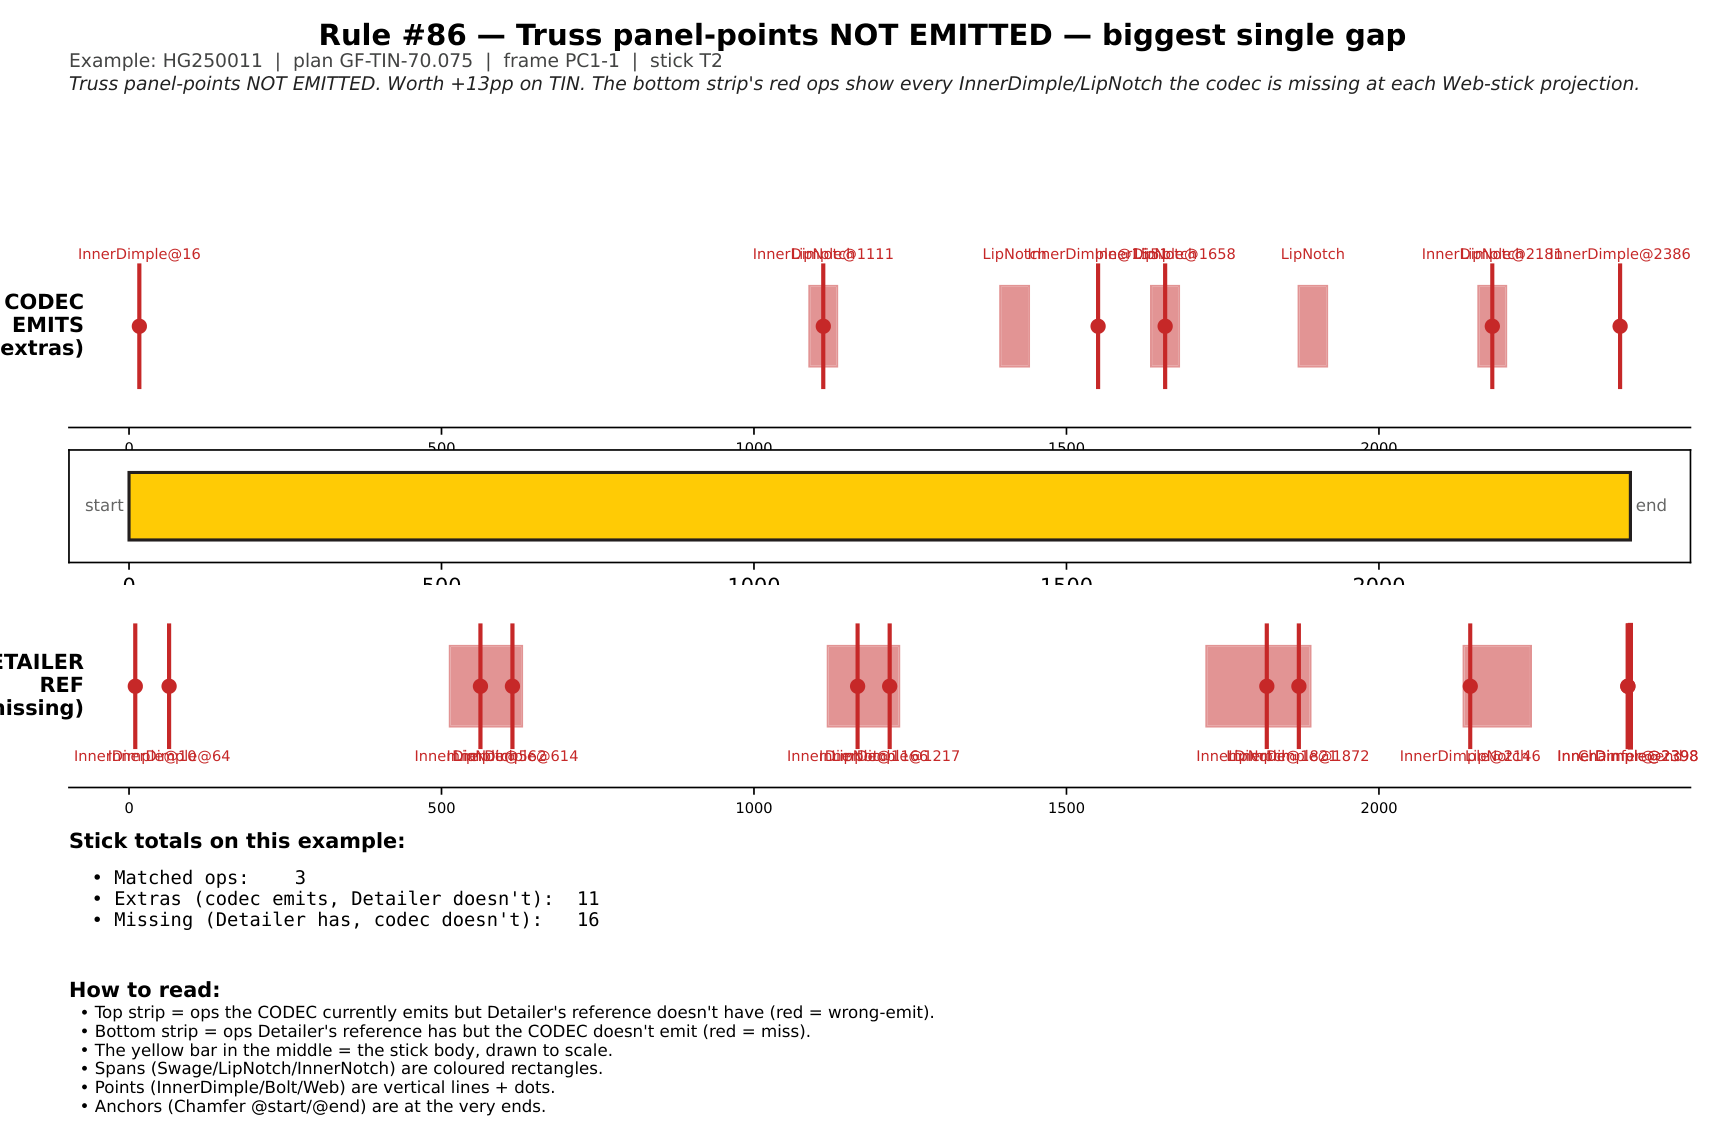
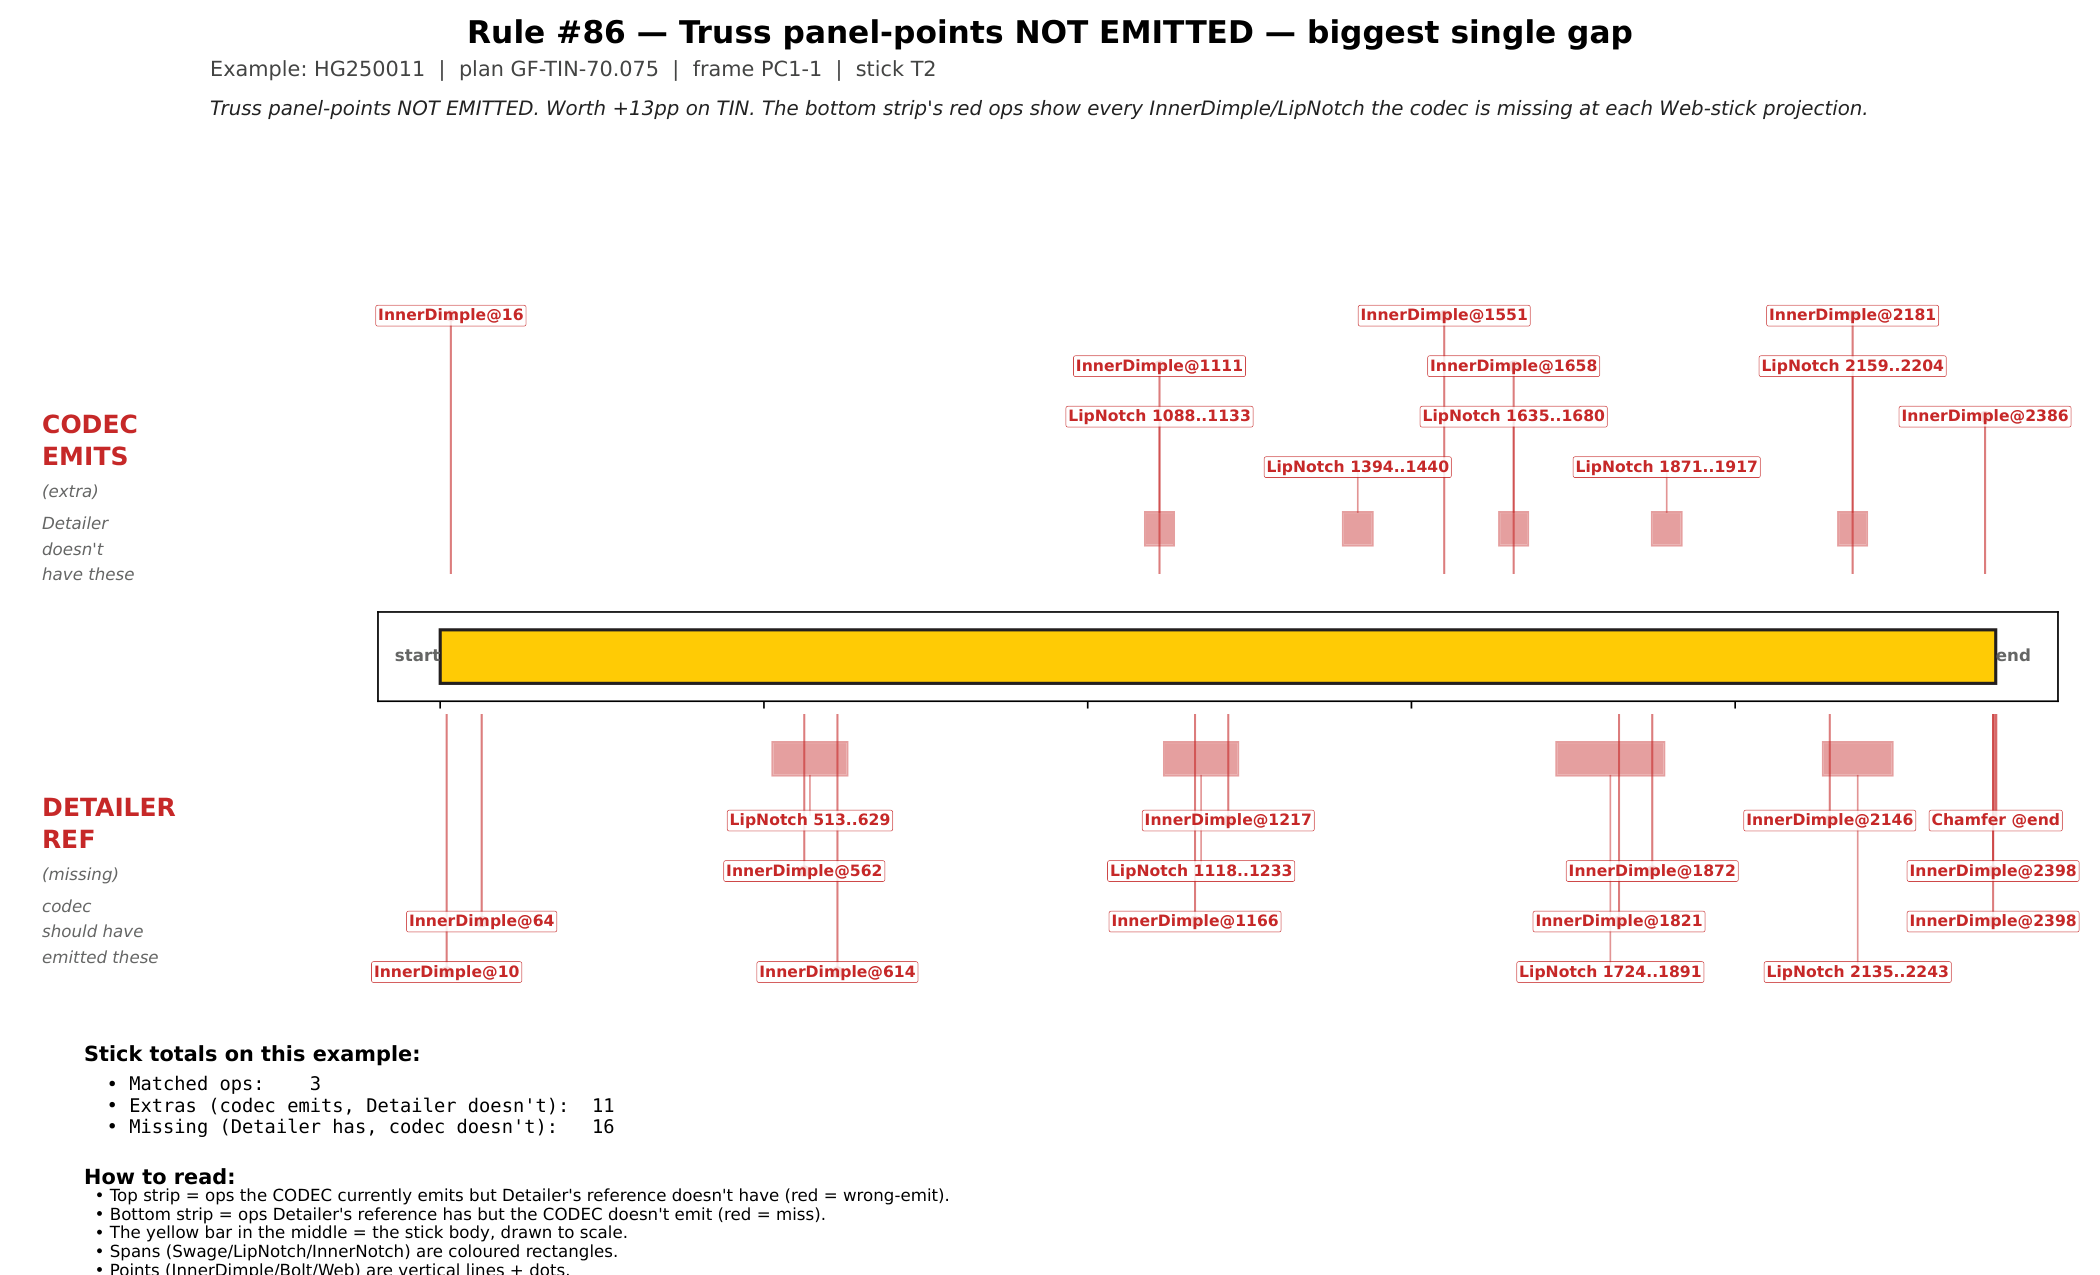
Auto-save session changes

diff --git a/docs/render_rule_pdfs.py b/docs/render_rule_pdfs.py
@@ -137,53 +137,115 @@ def render_pdf(rule_num: int, rule_text_short: str, headline: str, jobnum: str,
     matched = stick.get("matchedCount", 0)
     length = stick.get("oursLength") or stick.get("refLength") or 1000.0
 
-    # Figure with two strips (codec emit on top, ref on bottom)
-    fig = plt.figure(figsize=(11.5, 7.5))
-    plt.subplots_adjust(left=0.04, right=0.98, top=0.92, bottom=0.04)
+    # Figure layout: BIG left margin (axes start at 0.18) so the strip-row
+    # labels render fully without clipping. Strip labels live in figure
+    # coordinates between 0.01 and 0.17.
+    fig = plt.figure(figsize=(14, 8.5))
 
-    ax_top = fig.add_axes([0.04, 0.62, 0.94, 0.18])    # codec emit row
-    ax_stick = fig.add_axes([0.04, 0.50, 0.94, 0.10])   # the stick itself
-    ax_bot = fig.add_axes([0.04, 0.30, 0.94, 0.18])    # ref ops row
-    ax_text = fig.add_axes([0.04, 0.04, 0.94, 0.22])
+    ax_top = fig.add_axes([0.18, 0.55, 0.80, 0.22])
+    ax_stick = fig.add_axes([0.18, 0.45, 0.80, 0.07])
+    ax_bot = fig.add_axes([0.18, 0.22, 0.80, 0.22])
+    ax_text = fig.add_axes([0.04, 0.02, 0.94, 0.16])
     ax_text.axis("off")
+
+    # Figure-coordinate strip labels — independent of the data axes, never clipped
+    fig.text(0.02, 0.66, "CODEC", fontsize=12, fontweight="bold", color="#C62828", ha="left")
+    fig.text(0.02, 0.635, "EMITS", fontsize=12, fontweight="bold", color="#C62828", ha="left")
+    fig.text(0.02, 0.61, "(extra)", fontsize=8, color="#666", ha="left", style="italic")
+    fig.text(0.02, 0.585, "Detailer", fontsize=8, color="#666", ha="left", style="italic")
+    fig.text(0.02, 0.565, "doesn't", fontsize=8, color="#666", ha="left", style="italic")
+    fig.text(0.02, 0.545, "have these", fontsize=8, color="#666", ha="left", style="italic")
+
+    fig.text(0.02, 0.36, "DETAILER", fontsize=12, fontweight="bold", color="#C62828", ha="left")
+    fig.text(0.02, 0.335, "REF", fontsize=12, fontweight="bold", color="#C62828", ha="left")
+    fig.text(0.02, 0.31, "(missing)", fontsize=8, color="#666", ha="left", style="italic")
+    fig.text(0.02, 0.285, "codec", fontsize=8, color="#666", ha="left", style="italic")
+    fig.text(0.02, 0.265, "should have", fontsize=8, color="#666", ha="left", style="italic")
+    fig.text(0.02, 0.245, "emitted these", fontsize=8, color="#666", ha="left", style="italic")
 
     # Stick bar
     ax_stick.add_patch(Rectangle((0, 0.2), length, 0.6, facecolor=C_STICK, edgecolor=C_STICK_BORDER, linewidth=1.5))
     ax_stick.set_xlim(-length * 0.04, length * 1.04)
     ax_stick.set_ylim(0, 1)
     ax_stick.set_yticks([])
-    ax_stick.set_xlabel(f"Stick length: {length:.1f} mm", fontsize=9)
-    ax_stick.text(0, 0.5, " start ", ha="right", va="center", fontsize=8, color="#666")
-    ax_stick.text(length, 0.5, " end ", ha="left", va="center", fontsize=8, color="#666")
+    ax_stick.set_xlabel(f"Position along stick (mm) — total length {length:.0f} mm", fontsize=9)
+    ax_stick.text(0, 0.5, "start", ha="right", va="center", fontsize=8, color="#666", weight="bold")
+    ax_stick.text(length, 0.5, "end", ha="left", va="center", fontsize=8, color="#666", weight="bold")
 
-    def draw_ops_strip(ax, ops_list, label, ok_set, side="top"):
+    def get_op_x(parsed, length):
+        typ, kind, a, b = parsed
+        if kind == "span": return (a + b) / 2
+        if kind == "point": return a
+        if kind == "anchor": return 0 if a == "start" else length
+        return None
+
+    def draw_ops_strip(ax, ops_list, label_main, label_sub, side="top"):
+        """side='top' means strip is ABOVE the stick (codec emits).
+        side='bottom' means strip is BELOW the stick (Detailer ref / missing)."""
         ax.set_xlim(-length * 0.04, length * 1.04)
         ax.set_ylim(0, 1)
         ax.set_yticks([])
-        ax.spines["top"].set_visible(False)
-        ax.spines["right"].set_visible(False)
-        ax.spines["left"].set_visible(False)
-        ax.text(-length * 0.03, 0.5, label, ha="right", va="center", fontsize=10, fontweight="bold")
-        ax.tick_params(axis="x", labelsize=7)
+        ax.set_xticks([])
+        for sp in ("top", "right", "left", "bottom"):
+            ax.spines[sp].set_visible(False)
+        # (Strip labels are drawn in figure coords by the caller — see fig.text() block above.)
+        # Suppress unused-arg warning by referencing them
+        _ = (label_main, label_sub)
+
+        # Sort ops left-to-right and assign stagger levels (4 lanes) by index
+        # so labels don't overlap.
+        op_xs = []
         for opstr in ops_list:
             parsed = parse_op(opstr)
             if parsed is None:
                 continue
+            x = get_op_x(parsed, length)
+            if x is None:
+                continue
+            op_xs.append((x, opstr, parsed))
+        op_xs.sort(key=lambda t: t[0])
+
+        # 4 stagger lanes; the lane-Y depends on whether we're top or bottom strip
+        # Top strip: ops sit between y=0.05 (near stick) and y=0.95 (label area)
+        # Lanes for labels (top): 0.95, 0.78, 0.62, 0.45 (descending toward stick)
+        # Bottom strip mirrored.
+        if side == "top":
+            lanes = [0.92, 0.74, 0.56, 0.38]
+            stick_anchor_y = 0.0  # bottom of strip = next to stick
+        else:
+            lanes = [0.08, 0.26, 0.44, 0.62]
+            stick_anchor_y = 1.0  # top of strip = next to stick
+
+        for i, (x, opstr, parsed) in enumerate(op_xs):
             typ, kind, a, b = parsed
-            color = "#C62828" if opstr not in ok_set else "#2E7D32"
-            label_y = 0.85 if side == "top" else 0.15
-            stick_y = 0.05 if side == "top" else 0.95
+            lane_y = lanes[i % len(lanes)]
+            color = "#C62828"  # always red — these are the "wrong" ops on this strip
+            # Body of the op (rectangle for spans, vertical line for points/anchors)
             if kind == "span":
-                ax.add_patch(Rectangle((a, 0.30), b - a, 0.40, facecolor=color, alpha=0.5, edgecolor=color, linewidth=1.0))
-                ax.text((a + b) / 2, label_y, f"{typ}", ha="center", va="center", fontsize=7, color=color)
+                bar_y = 0.10 if side == "top" else 0.78
+                ax.add_patch(Rectangle((a, bar_y), b - a, 0.12,
+                                       facecolor=color, alpha=0.45, edgecolor=color, linewidth=1.0))
+                center_x = (a + b) / 2
+                # Leader line from bar to label lane
+                ax.plot([center_x, center_x], [bar_y + (0.12 if side == "top" else 0), lane_y - (0.02 if side == "top" else -0.02)],
+                        color=color, linewidth=0.8, alpha=0.5)
+                label_text = f"{typ} {a:.0f}..{b:.0f}"
             elif kind == "point":
-                ax.plot([a, a], [0.20, 0.80], color=color, linewidth=2.0)
-                ax.scatter([a], [0.50], color=color, s=40, zorder=3)
-                ax.text(a, label_y, f"{typ}@{a:.0f}", ha="center", va="center", fontsize=7, color=color, rotation=0)
+                ax.plot([x, x], [stick_anchor_y, lane_y], color=color, linewidth=1.0, alpha=0.6)
+                ax.scatter([x], [lane_y], color=color, s=20, zorder=3)
+                label_text = f"{typ}@{x:.0f}"
             elif kind == "anchor":
                 pos = 0 if a == "start" else length
-                ax.plot([pos, pos], [0.20, 0.80], color=color, linewidth=2.5)
-                ax.text(pos, label_y, f"{typ}@{a}", ha="center", va="center", fontsize=7, color=color)
+                ax.plot([pos, pos], [stick_anchor_y, lane_y], color=color, linewidth=1.5, alpha=0.7)
+                label_text = f"{typ} @{a}"
+            else:
+                continue
+
+            # Background-boxed label so neighbours don't crash visually
+            ax.text(x, lane_y, label_text,
+                    ha="center", va="center", fontsize=7.5, color=color, weight="bold",
+                    bbox=dict(facecolor="white", edgecolor=color, alpha=0.85,
+                              boxstyle="round,pad=0.15", linewidth=0.5))
 
     # Identify matched ops by looking at the intersection of extras vs missing
     # (an op that appears in BOTH 'extras' and 'missing' is a near-miss; in the diff
@@ -193,20 +255,17 @@ def render_pdf(rule_num: int, rule_text_short: str, headline: str, jobnum: str,
     extras_set = set(extras)
     missing_set = set(missing)
 
-    # Top: codec emit — show extras (red) + matched (green). Matched isn't enumerated
-    # in the diff JSON though — only extras. So we colour everything red here as "extra"
-    # which is OK since this row IS the extras list.
-    draw_ops_strip(ax_top, extras, "CODEC\nEMITS\n(extras)", set(), side="top")
-    draw_ops_strip(ax_bot, missing, "DETAILER\nREF\n(missing)", set(), side="bottom")
+    draw_ops_strip(ax_top, extras, "CODEC EMITS", "(extra — Detailer doesn't have these)", side="top")
+    draw_ops_strip(ax_bot, missing, "DETAILER REF", "(missing — codec should have emitted these)", side="bottom")
 
-    # Title
+    # Title at very top
     fig.suptitle(
         f"Rule #{rule_num} — {rule_text_short}",
-        fontsize=14, fontweight="bold", y=0.98
+        fontsize=15, fontweight="bold", y=0.985
     )
-    fig.text(0.04, 0.94, f"Example: {jobnum}  |  plan {plan_name}  |  frame {frame_name}  |  stick {stick_name}",
-             fontsize=9, color="#444")
-    fig.text(0.04, 0.92, headline, fontsize=9, color="#222", style="italic")
+    fig.text(0.10, 0.94, f"Example: {jobnum}  |  plan {plan_name}  |  frame {frame_name}  |  stick {stick_name}",
+             fontsize=10, color="#444")
+    fig.text(0.10, 0.91, headline, fontsize=9.5, color="#222", style="italic", wrap=True)
 
     # Bottom text — totals + headline
     ax_text.text(0.0, 1.0,